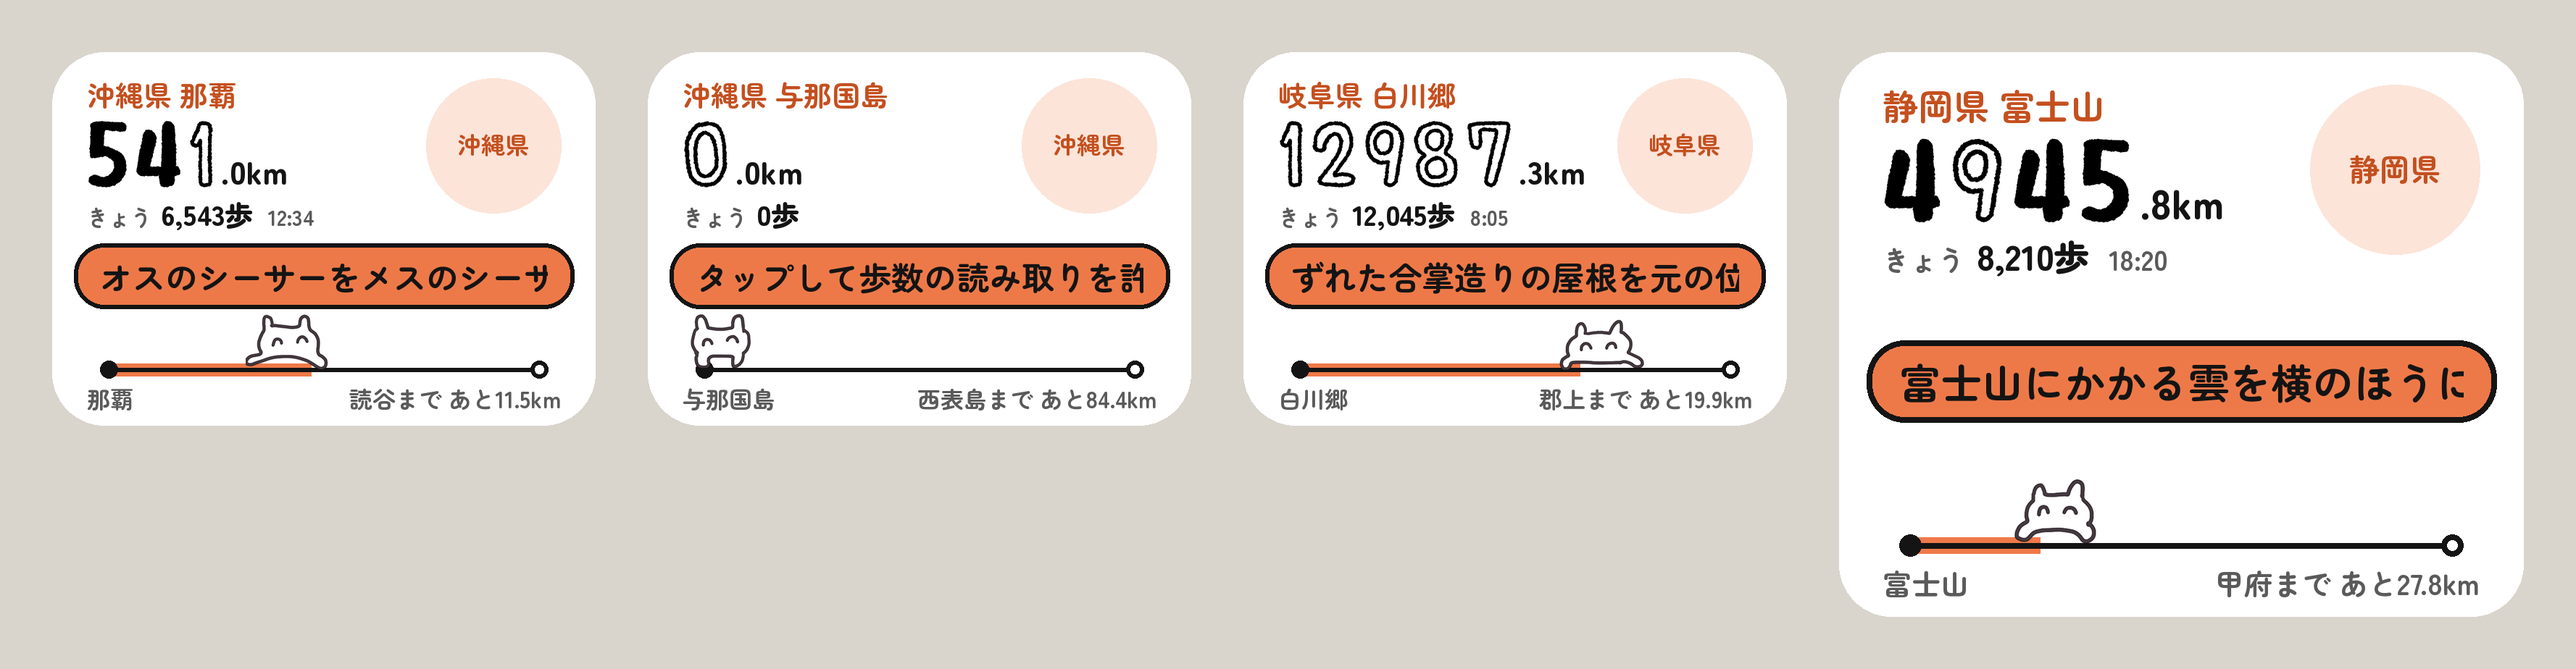
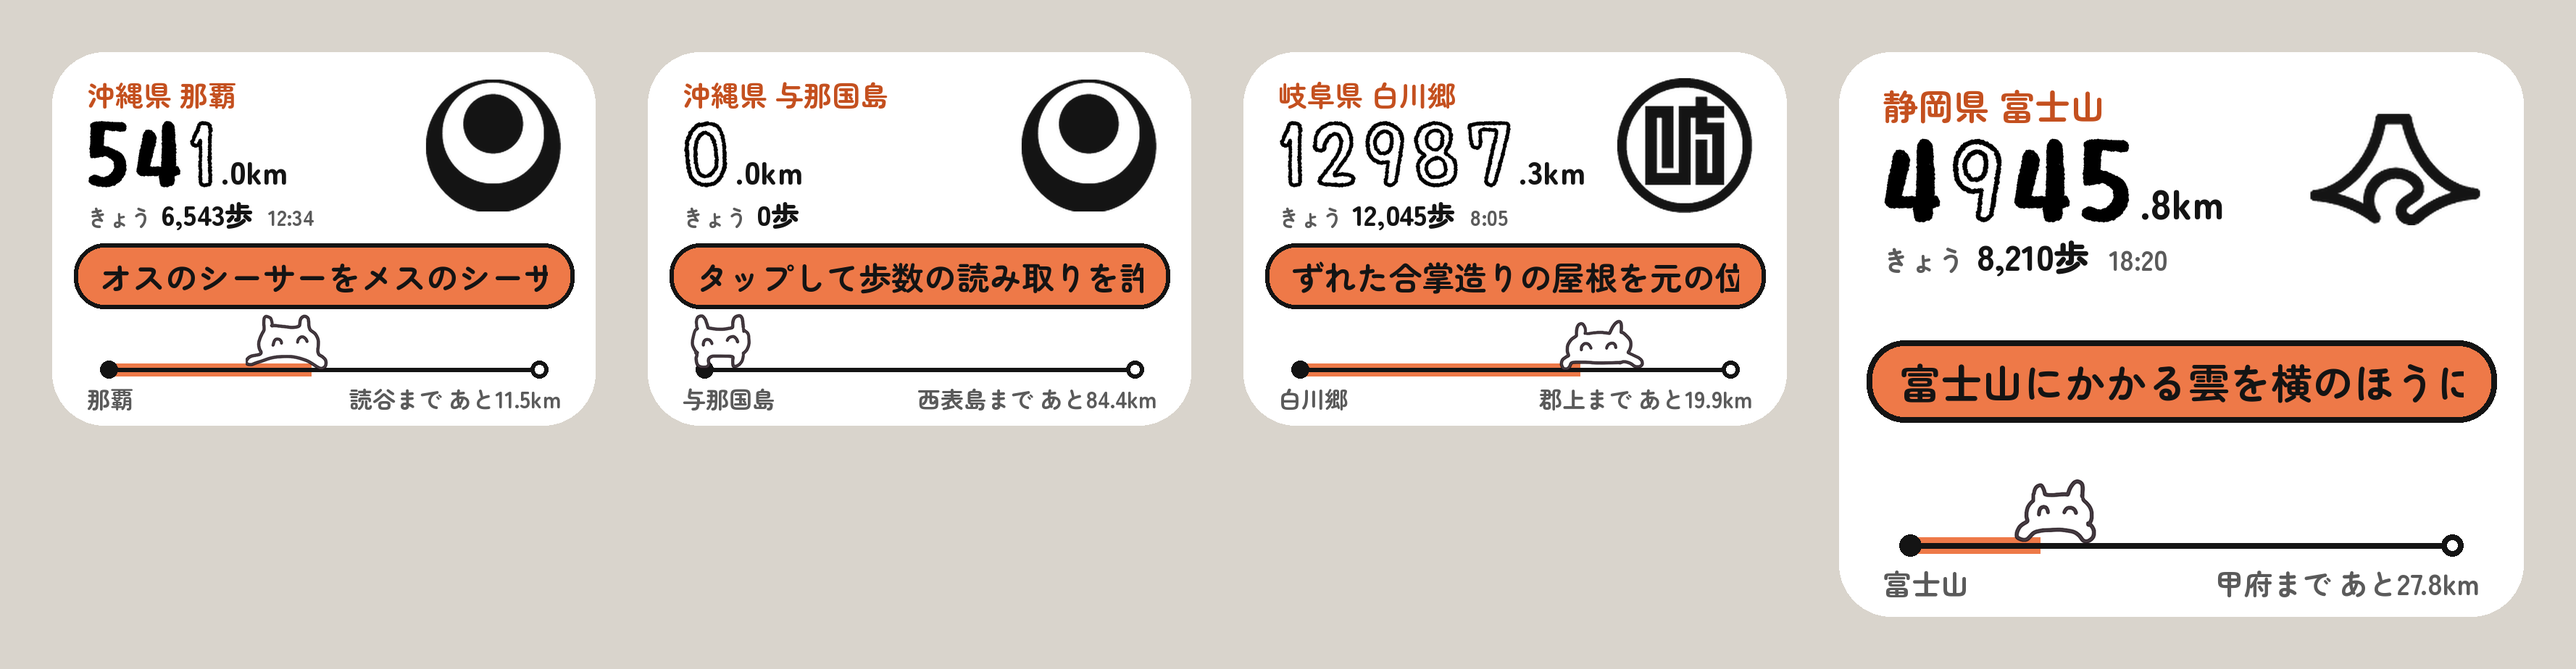
よこめぐり: 右上の絵に、都道府県の標章47枚を入れる (v0.9)
依頼者が見つけた標章の一覧（assets/pref_marks.png）から、tools/make_pref_marks.py で
都道府県ごとの絵 pref_01.png〜pref_47.png を切り出す。
白地を透明にして墨の色にしただけで、形には手を加えていない。
クラウドでビルドが通ることと、切り出しの並び（見本の画像）は確認済み。実機では未確認。

Claude-Session: https://claude.ai/code/session_014KTR17zu9RCtEpA9ba5Zut

diff --git a/step-widget/tools/make_pref_marks.py b/step-widget/tools/make_pref_marks.py
@@ -1,0 +1,38 @@
+#!/usr/bin/env python3
+"""都道府県の標章の一覧（assets/pref_marks.png）から、都道府県ごとの絵 pref_NN.png を切り出す（Pillow が必要）。
+
+一覧は横8×縦6のマス目で、左上が題名、そのあと北海道から沖縄県まで都道府県の番号の順に並んでいる。
+各マスの上の部分（県名の文字より上）から標章だけを切り出し、白地を透明にして、正方形のまん中に置く。
+形には手を加えない。一覧を差し替えたら実行し直す。
+"""
+import os
+
+from PIL import Image
+
+HERE = os.path.dirname(os.path.abspath(__file__))
+SRC = os.path.join(HERE, "..", "assets", "pref_marks.png")
+OUT = os.path.join(HERE, "..", "app", "src", "main", "res", "drawable-nodpi")
+CELL_W, CELL_H = 152, 188  # マスの大きさ（px）
+MARK_H = 140               # マスの上からこの高さまでが標章。その下は県名の文字
+LINE = 4                   # マスの境の線をよける幅
+SIZE = 400                 # 出力の一辺（px）
+MARGIN = 12                # 出力のまわりの余白（px）
+INK = (20, 20, 20)         # 墨の色（#141414）
+
+sheet = Image.open(SRC).convert("L")
+for code in range(1, 48):
+    col, row = code % 8, code // 8
+    cell = sheet.crop((col * CELL_W + LINE, row * CELL_H + LINE,
+                       (col + 1) * CELL_W - LINE, row * CELL_H + MARK_H))
+    box = cell.point(lambda v: 255 if v < 128 else 0).getbbox()
+    mark = cell.crop(box)
+    scale = (SIZE - MARGIN * 2) / max(mark.size)
+    mark = mark.resize((round(mark.width * scale), round(mark.height * scale)), Image.LANCZOS)
+    # 黒いところほど不透明にする。色は墨
+    alpha = mark.point(lambda v: 255 - v)
+    out = Image.new("RGBA", (SIZE, SIZE), INK + (0,))
+    layer = Image.new("RGBA", mark.size, INK + (255,))
+    layer.putalpha(alpha)
+    out.alpha_composite(layer, ((SIZE - mark.width) // 2, (SIZE - mark.height) // 2))
+    out.save(os.path.join(OUT, "pref_%02d.png" % code))
+print("wrote pref_01.png 〜 pref_47.png")

diff --git a/step-widget/SPEC.md b/step-widget/SPEC.md
@@ -39,11 +39,13 @@
 
 ### 右上の絵
 
-絵は2段になっている。下の段が都道府県の形の絵、上の段が名物の絵。まず都道府県の形の絵を47枚用意し、名物の絵は余裕が出たら地点ごとに足していく。
+絵は2段になっている。下の段が都道府県の絵、上の段が名物の絵。都道府県の絵は47枚そろっていて、名物の絵は余裕が出たら地点ごとに足していく。
+
+都道府県の絵には、都道府県の標章（県章）を使っている（0.9）。依頼者が見つけた一覧の画像 `assets/pref_marks.png` から、`tools/make_pref_marks.py` で1つずつ切り出した。白地を透明にして墨の色にしただけで、形には手を加えていない。一覧の1マスは150pxほどなので、大きく出すと輪郭が少しぼやける。標章は各都道府県が使い方の決まりを持っているので、アプリをほかの人に配るときは決まりを確かめる（いまは依頼者の端末だけで使う）。
 
 | 段 | 中身 | ファイル名 | 出るとき |
 | --- | --- | --- | --- |
-| 下 | 都道府県の形（沖縄県なら沖縄の地図の形） | `pref_NN.png` | その都道府県にいるあいだ。ただし、いまの地点に名物の絵があればそちらが出る |
+| 下 | 都道府県の標章（県章） | `pref_NN.png` | その都道府県にいるあいだ。ただし、いまの地点に名物の絵があればそちらが出る |
 | 上 | その地点の名物 | `meibutsu_NN_M.png` | その地点にいるあいだ（その地点に着いてから、次の地点に着くまで） |
 
 出す絵は、名物の絵 → 都道府県の形の絵 → 仮の丸（薄い丸に都道府県の名前）の順に、あるものを選ぶ。47枚だけのあいだは都道府県の形が出て、あとから名物の絵を置くと、その地点でだけ名物に替わる。
@@ -554,6 +556,7 @@
 - 0.2（2026-11-15）: 歩数をヘルスコネクトから読むように替えた。依頼者の端末（Android 14）で、歩数を取得できた
 - 0.3（2026-11-15）: 名前を「よこめぐり」にした。アクセントカラーを #EE7948 にした。名物の絵を右上に出す場所を作り、配置を組み直した。絵は都道府県ごとの47枚から始めて、地点ごとの絵をあとから足せる作りにした
 - 0.5（2026-11-15）: 帯の文を、地点ごとの「元の状態・いい状態にずらす」文に替えた。帯を2行にした
+- 0.9（2026-11-15）: 右上の絵の下の段に、都道府県の標章47枚を入れた
 - 0.8（2026-11-15）: 目標が少なく、海の上が長すぎたので、道すじを作り直した。海の区間を船で渡る扱い（1区間10km）にし、地点を145から376に増やした
 - 0.7（2026-11-15）: アプリのアイコン（スニーカーとよこずらし）を入れた。もとの絵は `assets/icon.png`、`tools/make_icon.py` で各大きさを作る
 - 0.6（2026-11-15）: 帯を1行に戻し、文をよこずらしニュースと同じしくみで流すようにした

diff --git a/README.md b/README.md
@@ -6,7 +6,7 @@
 | --- | --- | --- |
 | `pomodoro-timer/` | よこドーロタイマー（ポモドーロタイマーとウィジェット） | 動作中 |
 | `news-widget/` | よこずらしニュース（日付・天気・ニュースのウィジェット） | 仕様のみ。実装はこれから |
-| `step-widget/` | よこめぐり（歩いた累計の距離で日本を進む、歩数のウィジェット） | 0.8。歩数はヘルスコネクトから読む（Android 14 以上）。絵はこれから |
+| `step-widget/` | よこめぐり（歩いた累計の距離で日本を進む、歩数のウィジェット） | 0.9。歩数はヘルスコネクトから読む（Android 14 以上）。都道府県の標章は入れた。名物の絵はこれから |
 
 ## 共通の作り
 
